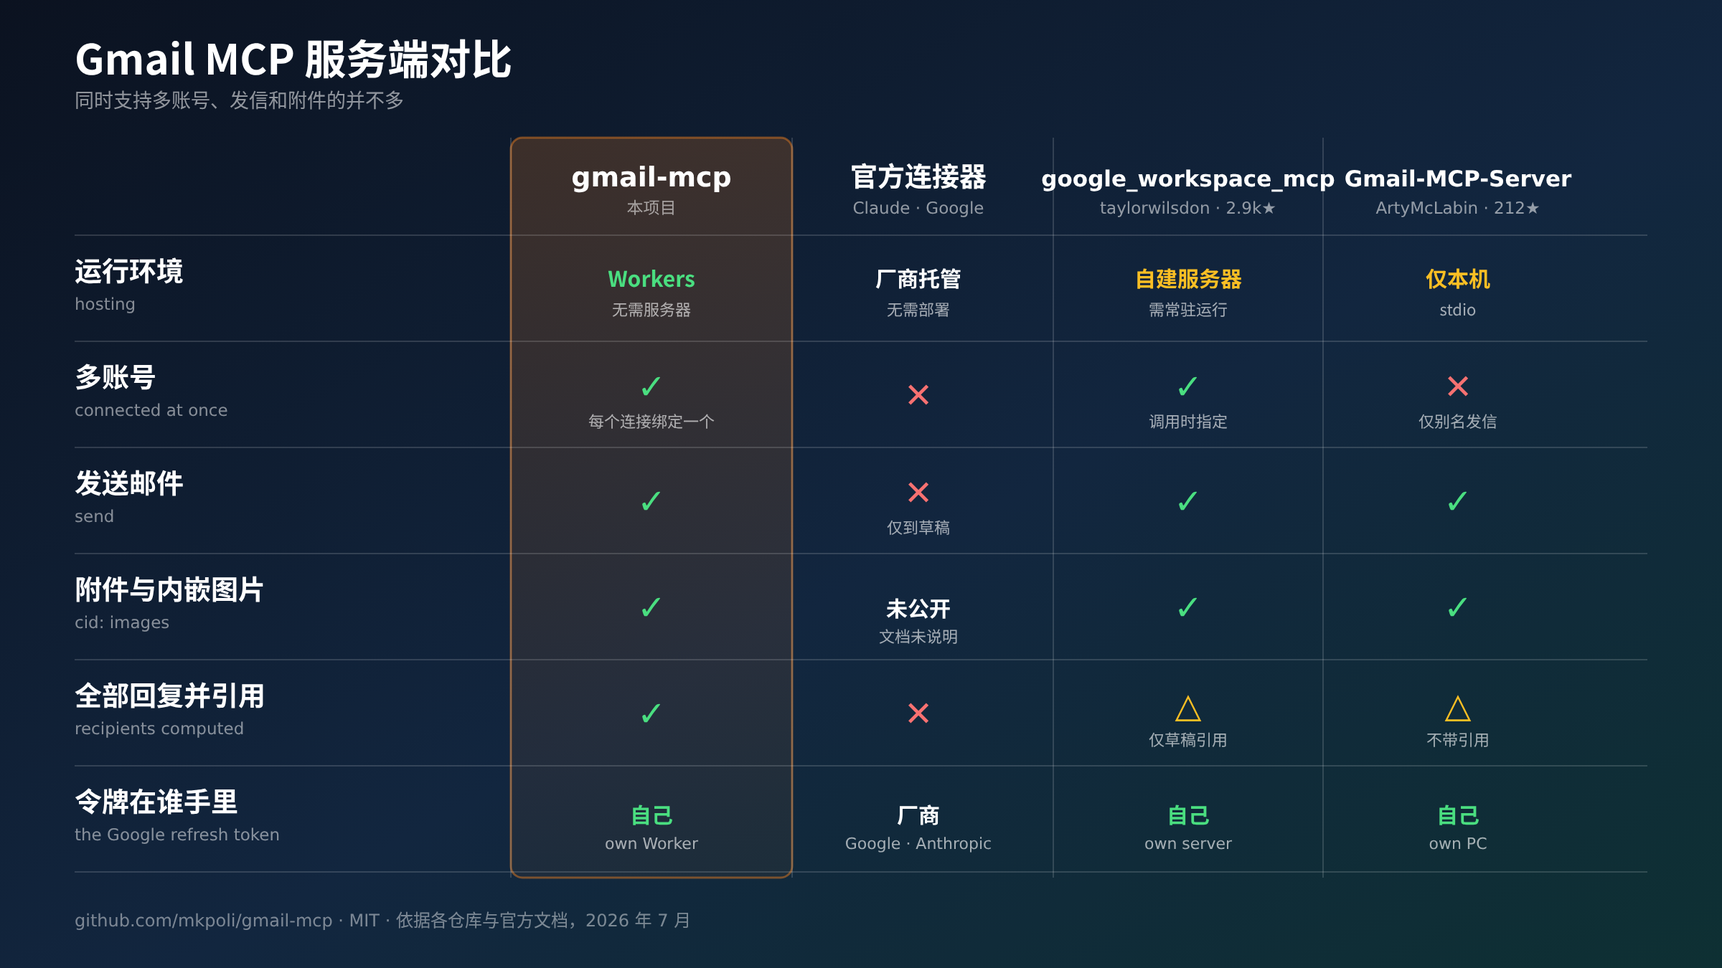
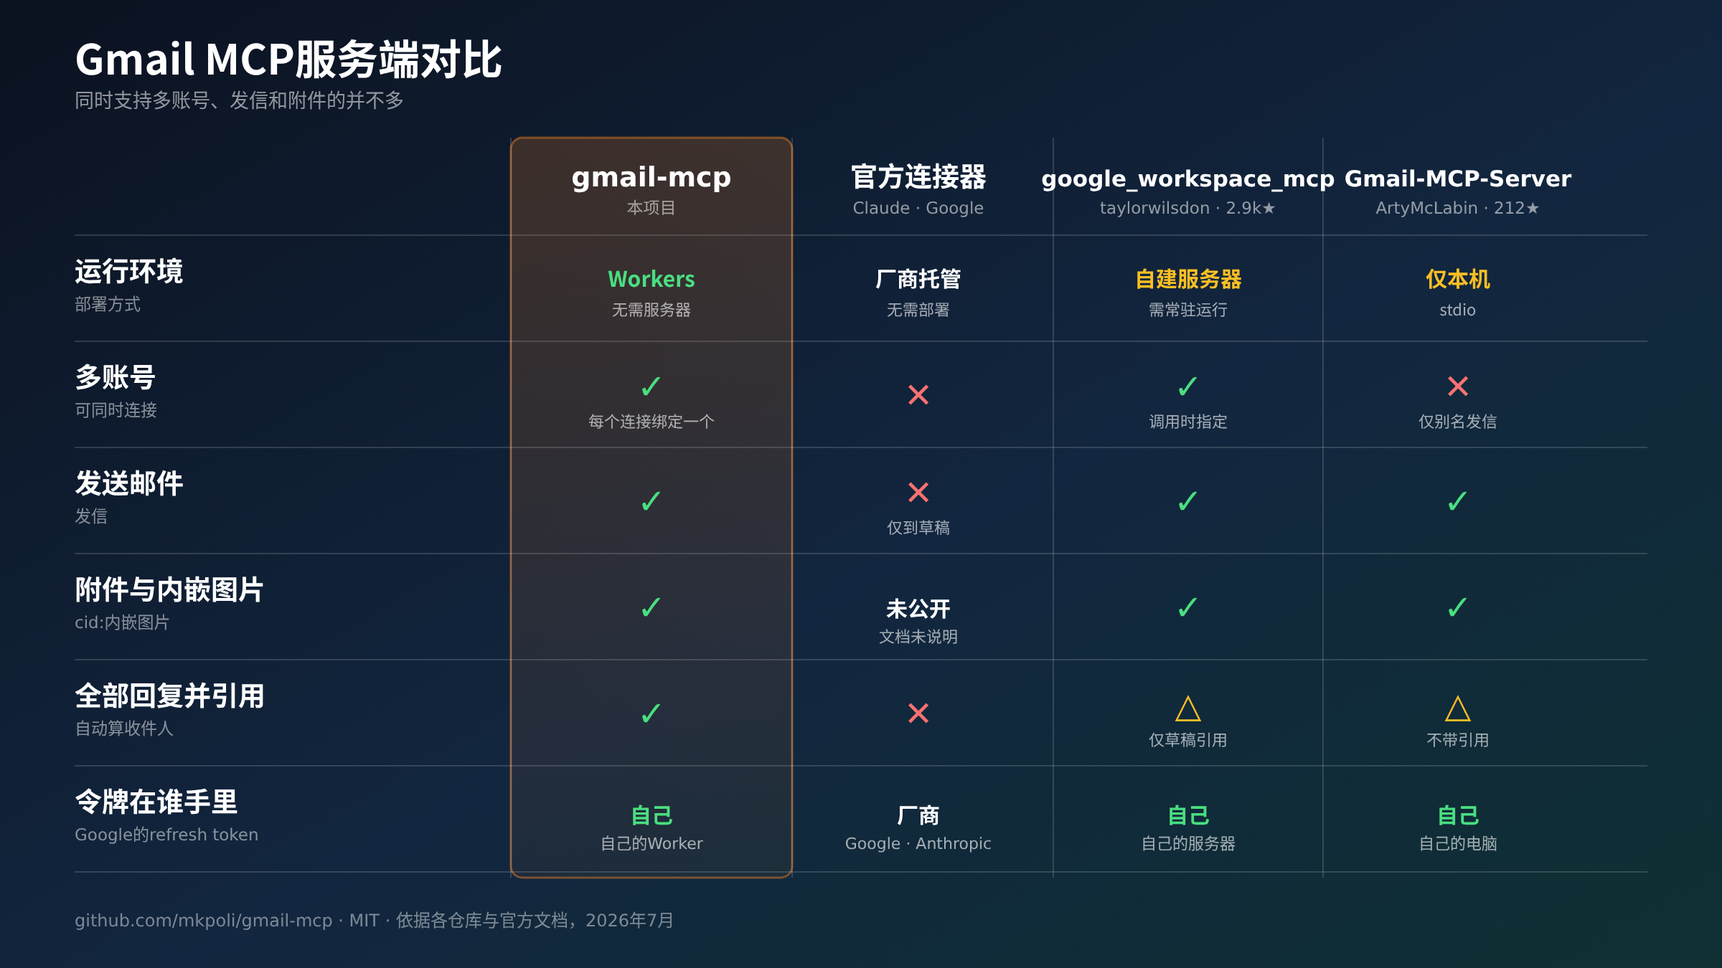
fix(docs): correct the tool count, narrow the header-injection claim
Six places said 23 tools; the source registers 24. The security bullet implied a prompt injection could not reach Bcc at all, when what CR/LF rejection prevents is smuggling a header inside another field — bcc is a legitimate parameter and the client's approval prompt is the real check.

diff --git a/docs/index.html b/docs/index.html
@@ -114,7 +114,7 @@
   <h1>gmail<span class="dash">-</span>mcp</h1>
   <p class="tagline">Your Gmail accounts, served to any MCP client, from your own Cloudflare Worker. Roughly ten minutes to deploy.</p>
   <div class="pills">
-    <span class="pill">23 tools</span>
+    <span class="pill">24 tools</span>
     <span class="pill">OAuth 2.1 + PKCE</span>
     <span class="pill">multi-account</span>
     <span class="pill">scope gmail.modify</span>

diff --git a/README.ja.md b/README.ja.md
@@ -3,7 +3,8 @@
 [![MIT](https://img.shields.io/badge/license-MIT-blue)](./LICENSE)
 [![Cloudflare Workers](https://img.shields.io/badge/runs%20on-Cloudflare%20Workers-F38020?logo=cloudflare&logoColor=white)](https://developers.cloudflare.com/workers/)
 [![MCP](https://img.shields.io/badge/protocol-MCP-6E56CF)](https://modelcontextprotocol.io/)
-[![23 tools](https://img.shields.io/badge/tools-23-0b7285)](#-できること)
+[![OAuth 2.1](https://img.shields.io/badge/auth-OAuth_2.1_+_PKCE-2ea44f)](https://datatracker.ietf.org/doc/html/draft-ietf-oauth-v2-1)
+[![24 tools](https://img.shields.io/badge/tools-24-0b7285)](#-できること)
 [![tests](https://img.shields.io/badge/tests-66_passing-success?logo=bun&logoColor=white)](#-テスト)
 
 *[English README](./README.md) · [简体中文](./README.zh.md)*
@@ -30,17 +31,17 @@
 
 **整理する** — `list_labels` · `create_label` · `update_label` · `delete_label` · `modify_labels` · `modify_thread_labels` · `batch_modify_messages` · `trash_message` · `untrash_message` · `trash_thread` · `untrash_thread`
 
-送信するメールの構造は、通常のメールクライアントが組み立てるものと同じです。プレーンテキストにHTML版を添え、ファイルを添付し、`cid:`で参照するインライン画像を埋め込みます。入れ子は`multipart/mixed › multipart/related › multipart/alternative`になります。件名と表示名はRFC 2047、ファイル名はRFC 2231で符号化するので、日本語も中国語も絵文字もそのまま届きます。
+送信するメールの構造は、通常のメールクライアントが組み立てるものと同じです。プレーンテキストにHTML版を添え、ファイルを添付し、`cid:`で参照するインライン画像を埋め込みます。入れ子は`multipart/mixed › multipart/related › multipart/alternative`になります。件名と表示名はRFC 2047、ファイル名はRFC 2231で符号化するので、日本語、中国語、絵文字も文字化けせずに送受信できます。
 
-`reply_all`は元メールの`Reply-To`・`From`・`To`・`Cc`を読み、自分のアドレスを除いて宛先を組み立て、`References`の連鎖を引き継ぎ、本文をテキストとHTMLの両方で引用します。`forward_message`では転送元のヘッダを再現し、元の添付ファイルをそのまま付け直せます。
+`reply_all`は元メールの`Reply-To`・`From`・`To`・`Cc`を読み、自分のアドレスを除いて宛先を組み立て、`References`の連鎖を引き継ぎ、送信する形式に合わせて原文を引用します。`forward_message`では元メールのヘッダを再現し、添付ファイルを引き継いで転送できます。
 
-読み取り側には上限を設けてあります。本文とスレッドには文字数、添付ファイルにはサイズの上限があり、長いメーリングリストのスレッドがアシスタントのコンテキストを圧迫することはありません。
+読み取りにも上限があります。本文とスレッドの取得には文字数の上限、添付ファイルの取得にはサイズの上限を設けているので、長いメーリングリストのスレッドがアシスタントのコンテキストを圧迫することはありません。
 
 ---
 
 ## 🚀 導入
 
-所要時間は10分ほどです。独自ドメインを設定したCloudflareアカウントと、[bun](https://bun.sh)、Googleアカウントを用意してください。
+所要時間は10分ほどです。独自ドメインを設定したCloudflareアカウント、[Bun](https://bun.sh)、Googleアカウントを用意してください。
 
 ### 1. Google OAuthクライアントを作る
 
@@ -52,10 +53,10 @@ gcloud config set project "$PROJECT"
 gcloud services enable gmail.googleapis.com
 ```
 
-続く2つの手順にAPIは用意されていないので、[Google Cloudコンソール](https://console.cloud.google.com/)で操作してください。
+以下の2項目には設定用のAPIがないため、[Google Cloudコンソール](https://console.cloud.google.com/)で操作してください。
 
-- [**OAuth同意画面**](https://console.cloud.google.com/auth/overview) → *External*。審査前の状態では、接続したいメールアドレスを**テストユーザー**に登録します。
-- [**認証情報**](https://console.cloud.google.com/apis/credentials) **→ 認証情報を作成 → OAuthクライアントID** → *ウェブアプリケーション*。承認済みリダイレクトURIに`https://<自分のドメイン>/callback`を追加し、クライアントIDとシークレットを控えておきます。
+- [**OAuth同意画面**](https://console.cloud.google.com/auth/overview)で、ユーザーの種類に*External*を選びます。審査が完了するまでは、接続するGoogleアカウントを**テストユーザー**に登録します。
+- [**認証情報**](https://console.cloud.google.com/apis/credentials) **→ 認証情報を作成 → OAuthクライアントID** → *ウェブアプリケーション*。承認済みのリダイレクトURIに`https://<自分のドメイン>/callback`を追加し、クライアントIDとシークレットを控えておきます。
 
 ### 2. Workerをデプロイする
 
@@ -96,11 +97,11 @@ Claude Codeでは`/mcp`を実行し、接続ごとに対応するGoogleアカウ
 | `*@company.com` | そのドメインのアカウント |
 | `*` | 確認済みのGoogleアカウントすべて |
 
-認可情報は、認証したメールボックスにだけ紐づきます。この一覧を広げても、すでに接続しているメールボックスへのアクセス範囲は変わりません。`*`を指定すると、第三者が自分のメールを扱うために、このデプロイとGoogle OAuthクライアントのクォータを使えるようになります。
+認可情報は、サインインに使ったGoogleアカウントにだけ紐づきます。`ALLOWED_EMAILS`の許可範囲を広げても、既存の接続からアクセスできるアカウントは増えません。`*`を指定すると、第三者が自分のメールを扱うために、このデプロイとGoogle OAuthクライアントのクォータを使えるようになります。
 
 ### 上限
 
-共有で公開したときに使い切られないよう、2つの上限を設けてあります。どちらも`wrangler.jsonc`の`vars`で変更できます。
+第三者に公開した場合に利用枠を使い切られないよう、2つの上限を設けています。どちらも`wrangler.jsonc`の`vars`で変更できます。
 
 | 設定 | 既定値 | 制限する対象 |
 | :-- | :-- | :-- |
@@ -113,7 +114,7 @@ Claude Codeでは`/mcp`を実行し、接続ごとに対応するGoogleアカウ
 
 ## 🏗 仕組み
 
-2つのOAuthフローが1つのWorkerの中で合流します。MCPクライアントはWorkerに対して認証し、Workerはユーザーに代わってGoogleに対して認証します。どちらの側も、もう一方の認証情報を持ちません。
+1つのWorkerで2つのOAuthフローを処理します。MCPクライアントはWorkerに接続するための認証を受け、WorkerはGoogleからメールボックスへのアクセス認可を受けます。MCPクライアントにGoogleのトークンは渡らず、GoogleにMCP側の認証情報は渡りません。
 
 ```mermaid
 sequenceDiagram
@@ -160,7 +161,7 @@ sequenceDiagram
 - **[`@modelcontextprotocol/sdk`](https://github.com/modelcontextprotocol/typescript-sdk)**と**[Zod](https://zod.dev/)** — ツール定義と引数の検証
 - **[Bun](https://bun.sh/)**・**[Biome](https://biomejs.dev/)**・**[Wrangler](https://developers.cloudflare.com/workers/wrangler/)** — 導入、テスト、静的解析、デプロイ
 
-GmailへのアクセスにはREST APIを`fetch`で直接呼び出しています。公式の`googleapis` SDKはNode.jsが前提で、Workerに載せるには依存が大きいため、メールの組み立て、MIMEの解析、トークンの更新は`src/gmail.ts`と`src/utils.ts`に実装しています。
+Gmailへのアクセスには[REST API](https://developers.google.com/workspace/gmail/api/reference/rest)を`fetch`で直接呼び出しています。公式の`googleapis` SDKはNode.jsが前提で、Workerに載せるには依存が大きいため、メールの組み立て、MIMEの解析、トークンの更新は`src/gmail.ts`と`src/utils.ts`に実装しています。
 
 ### エンドポイント
 
@@ -175,13 +176,13 @@ GmailへのアクセスにはREST APIを`fetch`で直接呼び出しています
 
 ## 🔒 セキュリティ
 
-自分で運用しても信頼はゼロにはならず、預け先が変わります。何がどこに置かれるかを書いておきます。
+自分で運用する場合も、CloudflareやGoogleへの信頼は必要です。トークンとメール本文の保存先を以下に示します。
 
 - **トークンは自分の手元に残ります。**リフレッシュトークンはOAuthの認可情報の中で暗号化され、自分のKV名前空間に入ります。有効期間1時間のアクセストークンは、セッションのDurable Objectに置かれます。メール本文はどこにも保存されず、通過するだけです。
 - **1セッションにつき1メールボックスです。**MCPセッションは、それを開いたアカウントに紐づきます。他人のセッションIDを使っても、別のメールボックスは操作できません。
 - **スコープを絞っています。** `gmail.modify`で許可されるのは、閲覧・送信・ラベル操作・ゴミ箱への移動までです。完全削除と`gmail.settings.*`配下は含まれません。乗っ取り後によく使われる自動転送やフィルタの作成は、そもそも権限の外にあります。
-- **ヘッダインジェクションを防ぎます。**送信ヘッダの値にCRやLFが含まれていれば拒否します。本文に仕込まれたプロンプトインジェクションにモデルが従っても、`Bcc`を足すことはできません。引用部分はHTMLエスケープを通します。
-- **取り消しが効きます。**新規のサインインを止めるなら`ALLOWED_EMAILS`を狭めます。[myaccount.google.com/connections](https://myaccount.google.com/connections)でアプリのアクセスを取り消すか、Googleのクライアントシークレットを再生成すると、すべての認可情報を一度に無効化できます。
+- **ヘッダインジェクションを防ぎます。**送信ヘッダの値にCR、LF、NULが含まれている場合は拒否するので、改行を挟んで別のヘッダを差し込む攻撃はできません。件名の中に`Bcc`を紛れ込ませる、といった手口が該当します。メディアタイプも検証し、引用部分はHTMLエスケープします。ただし引数そのものは制限しません。`bcc`は正規のパラメータなので、本文に仕込まれた指示にモデルが従えば指定される可能性は残り、そこはクライアント側の確認画面が歯止めになります。
+- **アクセスを無効化できます。**新規のサインインを止めるには、`ALLOWED_EMAILS`の許可範囲を狭めます。特定のアカウントからのアクセスは、[myaccount.google.com/connections](https://myaccount.google.com/connections)で取り消せます。すべての認可情報を一度に無効化する場合は、Googleのクライアントシークレットを再生成します。
 
 リクエストを処理する間、Workerはメールをメモリ上で復号します。中継する以上、これは避けられません。特定のメールボックスでそれが許容できない場合は、そのアカウントだけローカルのMCPサーバーを使うほうが適しています。
 

diff --git a/README.md b/README.md
@@ -12,7 +12,7 @@
 [![Cloudflare Workers](https://img.shields.io/badge/runs%20on-Cloudflare%20Workers-F38020?logo=cloudflare&logoColor=white)](https://developers.cloudflare.com/workers/)
 [![MCP](https://img.shields.io/badge/protocol-MCP-6E56CF)](https://modelcontextprotocol.io/)
 [![OAuth 2.1](https://img.shields.io/badge/auth-OAuth_2.1_+_PKCE-2ea44f)](https://datatracker.ietf.org/doc/html/draft-ietf-oauth-v2-1)
-[![23 tools](https://img.shields.io/badge/tools-23-0b7285)](#what-it-can-do)
+[![24 tools](https://img.shields.io/badge/tools-24-0b7285)](#what-it-can-do)
 [![tests](https://img.shields.io/badge/tests-66_passing-success?logo=bun&logoColor=white)](#how-it-was-tested)
 
 *[日本語版](./README.ja.md) · [简体中文](./README.zh.md)*
@@ -58,7 +58,7 @@ Two things push people here. The Gmail connectors built into Claude and Google r
 | Honors each part's charset | ✅ | — | ❌ UTF-8 assumed | ❌ UTF-8 assumed | ❌ | ❌ |
 | Rejects CRLF header injection | ✅ | — | ✅ framework | ✅ strips | ❌ **none** | ✅ |
 | Mailbox settings (filters, vacation) | ❌ out of scope | ❌ | filters | filters | ✅ | ❌ |
-| Tool count | 23 | 11–16 | 14 (Gmail) | 30 | 64 | 11 |
+| Tool count | 24 | 11–16 | 14 (Gmail) | 30 | 64 | 11 |
 | Who holds your refresh token | you | vendor | you | you | you | you |
 
 [`google_workspace_mcp`](https://github.com/taylorwilsdon/google_workspace_mcp) is the most complete project here. It covers all of Workspace rather than Gmail alone, and it appends your Gmail signature and pulls attachments straight from a URL, neither of which gmail-mcp does. [`shinzo-labs/gmail-mcp`](https://github.com/shinzo-labs/gmail-mcp) reaches vacation responders, delegates, and S/MIME through its 64 tools; those live under `gmail.settings.*`, a scope gmail-mcp never requests, so they stay beyond its reach whatever happens to a grant.
@@ -158,7 +158,7 @@ Your deployment serves this guide at `https://<your-domain>/`.
 
 Messages leave the way a mail client sends them: plain text with an HTML alternative, file attachments, and inline images referenced by `cid:`, nested as `multipart/mixed › multipart/related › multipart/alternative`. Subjects and display names use RFC 2047, filenames use RFC 2231, so Japanese, Chinese, and emoji survive the trip.
 
-`reply_all` reads the original's `Reply-To`, `From`, `To`, and `Cc`, drops your own address, carries the `References` chain, and quotes the original in both parts. `forward_message` reproduces the forwarded envelope and can re-attach the original's files.
+`reply_all` reads the original's `Reply-To`, `From`, `To`, and `Cc`, drops your own address, carries the `References` chain, and quotes the original in whichever parts you send. `forward_message` reproduces the forwarded envelope and can re-attach the original's files.
 
 Reading is bounded on purpose: message and thread bodies have character budgets and attachments a size ceiling, so a mailing-list thread cannot flood the assistant's context.
 
@@ -264,8 +264,8 @@ Self-hosting moves the trust question rather than removing it, so here is where 
 - **Your tokens stay yours.** Refresh tokens are encrypted inside their OAuth grant in your KV namespace; the hour-lived access token lives in the session's Durable Object. Mail is never stored — it passes through.
 - **One session, one mailbox.** The MCP session is bound to the account that opened it, so a grant for one mailbox cannot act on another through a borrowed session id.
 - **Scope minimalism.** `gmail.modify` covers reading, sending, labels, and trash. It excludes permanent deletion and all of `gmail.settings.*`, keeping auto-forwarding rules and filter exfiltration — the classic mailbox backdoors — outside what any stolen grant could do.
-- **Hostile mail cannot smuggle headers.** Every outgoing header value rejects CR and LF, so an instruction hidden in a message body cannot add a silent `Bcc`. Media types are validated, and quoted history is HTML-escaped.
-- **Revoking works.** Narrow `ALLOWED_EMAILS` to stop new sign-ins, revoke at [myaccount.google.com/connections](https://myaccount.google.com/connections), or rotate the Google client secret to invalidate every grant at once.
+- **Headers cannot be smuggled.** Every outgoing header value is rejected if it contains CR, LF or NUL, so no argument can break out of its own field to append one — a `Bcc` inside a subject line, say. Media types are validated, and quoted history is HTML-escaped. What this does not do is police the arguments themselves: `bcc` is a real parameter, so a model acting on an instruction hidden in a message body could still fill it in, and your client's approval prompt remains the check on that.
+- **Access can be withdrawn.** Narrowing `ALLOWED_EMAILS` stops new sign-ins. A single account's access is revoked at [myaccount.google.com/connections](https://myaccount.google.com/connections). Rotating the Google client secret invalidates every grant at once.
 
 The Worker decrypts mail in memory while serving a request, as any hosted relay must. If that is unacceptable for a particular mailbox, run a local MCP server for that one.
 

diff --git a/README.zh.md b/README.zh.md
@@ -4,7 +4,7 @@
 [![Cloudflare Workers](https://img.shields.io/badge/runs%20on-Cloudflare%20Workers-F38020?logo=cloudflare&logoColor=white)](https://developers.cloudflare.com/workers/)
 [![MCP](https://img.shields.io/badge/protocol-MCP-6E56CF)](https://modelcontextprotocol.io/)
 [![OAuth 2.1](https://img.shields.io/badge/auth-OAuth_2.1_+_PKCE-2ea44f)](https://datatracker.ietf.org/doc/html/draft-ietf-oauth-v2-1)
-[![23 tools](https://img.shields.io/badge/tools-23-0b7285)](#能做什么)
+[![24 tools](https://img.shields.io/badge/tools-24-0b7285)](#能做什么)
 [![tests](https://img.shields.io/badge/tests-66_passing-success?logo=bun&logoColor=white)](#测试)
 
 *[English README](./README.md) · [日本語版](./README.ja.md)*
@@ -46,7 +46,7 @@
 | 按part声明的字符集解码 | ✅ | — | ❌ 假定UTF-8 | ❌ 假定UTF-8 | ❌ | ❌ |
 | 拒绝CRLF头注入 | ✅ | — | ✅ 框架层 | ✅ 剥离 | ❌ **无** | ✅ |
 | 邮箱设置（过滤器、休假回复） | ❌ 范围外 | ❌ | 过滤器 | 过滤器 | ✅ | ❌ |
-| 工具数量 | 23 | 11–16 | 14（Gmail） | 30 | 64 | 11 |
+| 工具数量 | 24 | 11–16 | 14（Gmail） | 30 | 64 | 11 |
 | refresh token在谁手里 | 自己 | 厂商 | 自己 | 自己 | 自己 | 自己 |
 
 [`google_workspace_mcp`](https://github.com/taylorwilsdon/google_workspace_mcp)是这里面最完整的项目。它覆盖整个Workspace，Gmail只是其中一部分，还做了两件gmail-mcp没有的事：追加Gmail签名、直接从URL拉附件。[`shinzo-labs/gmail-mcp`](https://github.com/shinzo-labs/gmail-mcp)的64个工具能碰到休假回复、委托访问和S/MIME，它们都在`gmail.settings.*`底下，而gmail-mcp从不申请这个scope，所以授权再怎么泄露都够不到那些功能。
@@ -146,7 +146,7 @@ claude mcp add --transport http gmail-work     https://<你的域名>/mcp/work
 
 邮件结构和普通邮件客户端的一样：纯文本附一份HTML替代版本，文件附件，以`cid:`引用的内嵌图片，整体嵌套成`multipart/mixed › multipart/related › multipart/alternative`。主题和显示名用RFC 2047编码，文件名用RFC 2231，日文、中文、emoji都能完整送达。
 
-`reply_all`读取原信的`Reply-To`、`From`、`To`、`Cc`，去掉你自己的地址，接上`References`链，并在纯文本和HTML两个部分里都引用原文。`forward_message`复现被转发邮件的信封，还可以把原信附件重新带上。
+`reply_all`读取原信的`Reply-To`、`From`、`To`、`Cc`，去掉你自己的地址，接上`References`链，并按你发送的格式引用原文。`forward_message`复现被转发邮件的信封，还可以把原信附件重新带上。
 
 读取有意设了上限：邮件和会话正文有字符数预算，附件有大小上限，一条邮件列表里的长会话淹不掉助手的上下文。
 
@@ -249,7 +249,7 @@ Gmail本身用原生`fetch`直接调[REST API](https://developers.google.com/wor
 - **令牌始终是你的。**refresh token加密后放在各自的OAuth授权记录里，存于你自己的KV命名空间；有效期一小时的access token放在会话的Durable Object里。邮件从不存储，只是经过。
 - **一个会话，一个邮箱。**MCP会话绑定在开启它的账号上，一个邮箱的授权没法借着别处拿来的会话ID去操作另一个邮箱。
 - **scope从简。** `gmail.modify`涵盖读取、发送、标签和回收站，不含永久删除，也不含`gmail.settings.*`。自动转发规则和过滤器外泄这两条经典的邮箱后门，都在任何被盗授权的能力之外。
-- **恶意邮件夹带不了信头。**所有出站信头的值都拒绝CR和LF，藏在正文里的指令加不进一个悄无声息的`Bcc`。媒体类型会校验，引用的原文会做HTML转义。
+- **信头夹带不进去。**所有出站信头的值只要含CR、LF或NUL就会被拒绝，参数没法越出自己的字段去追加一个信头，比如在主题里塞一个`Bcc`。媒体类型会校验，引用的原文会做HTML转义。但这不管参数本身：`bcc`是正经参数，模型如果听了正文里藏的指令，还是可能填进去，这一层由客户端的确认弹窗来把关。
 - **撤销有效。**收紧`ALLOWED_EMAILS`可以挡住新登录，在[myaccount.google.com/connections](https://myaccount.google.com/connections)撤销应用授权，或者轮换Google客户端密钥让所有授权一次失效。
 
 Worker在处理请求期间会在内存里解密邮件，任何托管中继都得这样。如果某个邮箱连这一点都不能接受，就单独给它跑一个本地MCP服务器。
